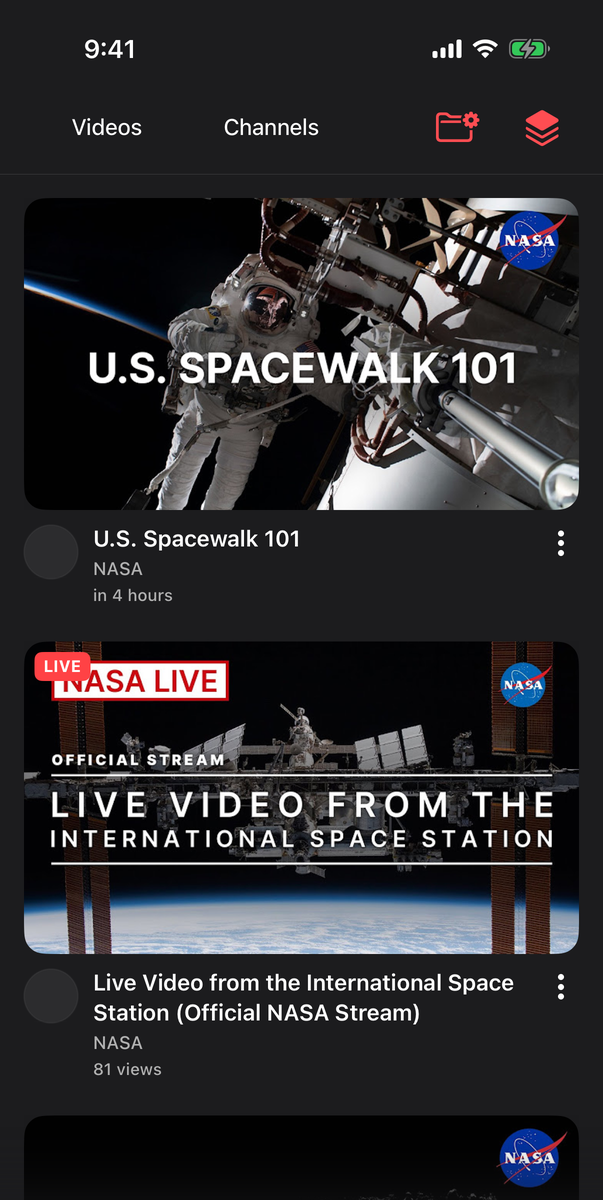
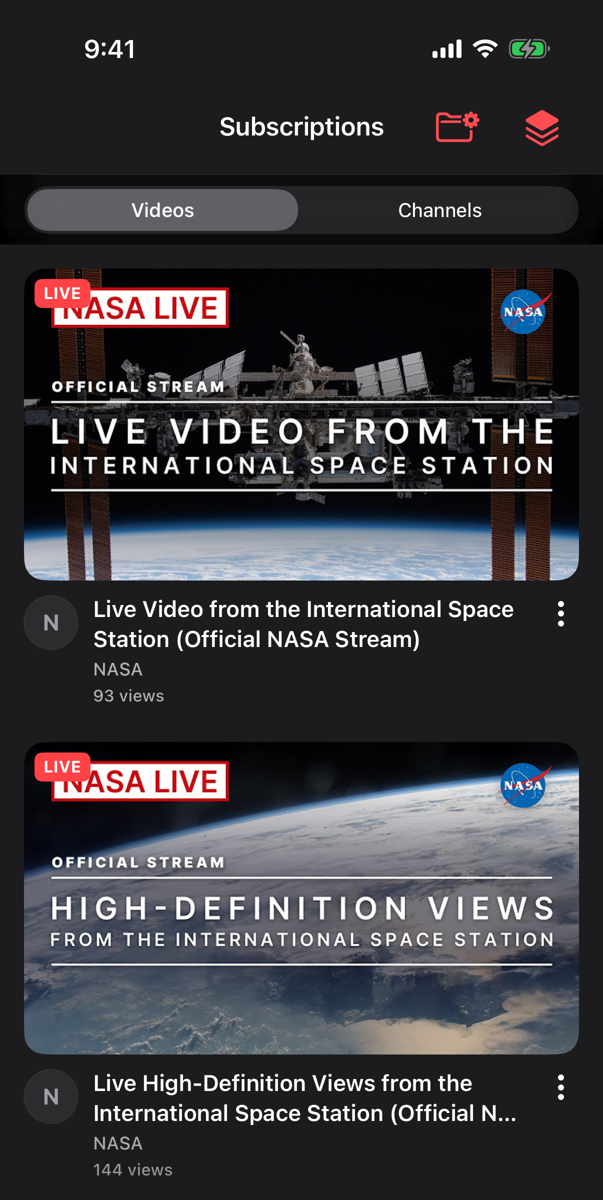
docs: describe settings search and screen-off playback

diff --git a/README.md b/README.md
@@ -43,8 +43,9 @@ sessions, recommendations, synchronization, and downloads.
 - Browse and search videos, channels, playlists, and subscriptions.
 - Browse and watch Twitch lives, past broadcasts, and clips in the Live tab when
   your instance enables Twitch, go back in a live, or listen to it as sound only.
-- Follow the Twitch chat of a live or replay it on a past broadcast; link a
-  Twitch account with a code to chat, vote in polls, and follow channels.
+- Follow the Twitch chat of a live or replay it on a past broadcast, full height
+  under the picture on iPhone and in a column beside it on iPad; link a Twitch
+  account with a code to chat, vote in polls, and follow channels.
 - Choose how the home page is built on instances with the algorithm, see the
   data it uses, and fade distracting channels with Focus.
 - Get recommendations from your instance, and mark the ones that are not for
@@ -61,6 +62,10 @@ sessions, recommendations, synchronization, and downloads.
   autoplay, and the sleep timer.
 - Download videos, audio or thumbnails and watch them offline, with saving that
   picks up again after leaving the app or losing the network.
+- Find any setting by typing its name in Settings.
+- Play in the background and from the lock screen, with queue tracks, pausing for
+  calls and unplugged headphones, and the lowest video quality while the screen
+  is off.
 - Switch between several accounts, themes, and English or French.
 - See server restarts, updates, and outages as they happen.
 
